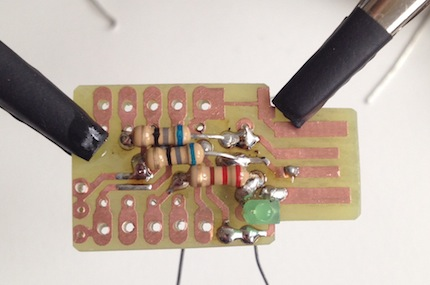
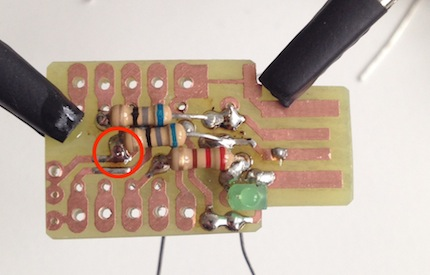
update read me

diff --git a/readme.md b/readme.md
@@ -20,51 +20,83 @@ The goal of this project was to create a [Trinket](https://github.com/adafruit/A
 ### Creating the board
 
 Tranfering the layout to the board using toner-transfer. You can see some paper residue on the toner. This doesn't hinder the etching
-![Trinky](https://github.com/beargun/trinky/raw/master/pictures/trinky-1.jpg)
+<br />![Trinky](https://github.com/beargun/trinky/raw/master/pictures/trinky-1.jpg)
 
 Etching the board in hydrochloric acid and hydrogen peroxide. I'm agitaring the board using a modified cd-rom drive.
-![Trinky](https://github.com/beargun/trinky/raw/master/pictures/trinky-2.jpg)
+<br />![Trinky](https://github.com/beargun/trinky/raw/master/pictures/trinky-2.jpg)
 
 Almost done.
-![Trinky](https://github.com/beargun/trinky/raw/master/pictures/trinky-3.jpg)
+<br />![Trinky](https://github.com/beargun/trinky/raw/master/pictures/trinky-3.jpg)
 
 If you look closely you still see some copper. In hindsight I should have left it in the eching solution a bit longer.
-![Trinky](https://github.com/beargun/trinky/raw/master/pictures/trinky-4.jpg)
+<br />![Trinky](https://github.com/beargun/trinky/raw/master/pictures/trinky-4.jpg)
 
 With the toner removed you can clearly see the copper bridge. Easily fixed with a sharp knife.
-![Trinky](https://github.com/beargun/trinky/raw/master/pictures/trinky-5.jpg)
+<br />![Trinky](https://github.com/beargun/trinky/raw/master/pictures/trinky-5.jpg)
 
 All fixed. Note that I also cut away some of the outline. Otherwise I couldn't test for short using my multi-meter
-![Trinky](https://github.com/beargun/trinky/raw/master/pictures/trinky-6.jpg)
+<br />![Trinky](https://github.com/beargun/trinky/raw/master/pictures/trinky-6.jpg)
 
 Holding it agains the light reveals there are no more obvious shorts.
-![Trinky](https://github.com/beargun/trinky/raw/master/pictures/trinky-7.jpg)
+<br />![Trinky](https://github.com/beargun/trinky/raw/master/pictures/trinky-7.jpg)
 
 Holes drilled.
-![Trinky](https://github.com/beargun/trinky/raw/master/pictures/trinky-8.jpg)
+<br />![Trinky](https://github.com/beargun/trinky/raw/master/pictures/trinky-8.jpg)
 
 Outline cut using an electric scrollsaw.
-![Trinky](https://github.com/beargun/trinky/raw/master/pictures/trinky-9.jpg)
+<br />![Trinky](https://github.com/beargun/trinky/raw/master/pictures/trinky-9.jpg)
 
 
 ### Assembling the board
 
-![Trinky](https://github.com/beargun/trinky/raw/master/pictures/trinky-10.jpg)
-![Trinky](https://github.com/beargun/trinky/raw/master/pictures/trinky-11.jpg)
-![Trinky](https://github.com/beargun/trinky/raw/master/pictures/trinky-12.jpg)
-![Trinky](https://github.com/beargun/trinky/raw/master/pictures/trinky-13.jpg)
-![Trinky](https://github.com/beargun/trinky/raw/master/pictures/trinky-14.jpg)
-![Trinky](https://github.com/beargun/trinky/raw/master/pictures/trinky-15.jpg)
-![Trinky](https://github.com/beargun/trinky/raw/master/pictures/trinky-16.jpg)
-![Trinky](https://github.com/beargun/trinky/raw/master/pictures/trinky-17.jpg)
-![Trinky](https://github.com/beargun/trinky/raw/master/pictures/trinky-18.jpg)
-![Trinky](https://github.com/beargun/trinky/raw/master/pictures/trinky-19.jpg)
-![Trinky](https://github.com/beargun/trinky/raw/master/pictures/trinky-20.jpg)
-![Trinky](https://github.com/beargun/trinky/raw/master/pictures/trinky-21.jpg)
-![Trinky](https://github.com/beargun/trinky/raw/master/pictures/trinky-22.jpg)
-![Trinky](https://github.com/beargun/trinky/raw/master/pictures/trinky-23.jpg)
-![Trinky](https://github.com/beargun/trinky/raw/master/pictures/trinky-24.jpg)
-![Trinky](https://github.com/beargun/trinky/raw/master/pictures/trinky-25.jpg)
-![Trinky](https://github.com/beargun/trinky/raw/master/pictures/trinky-26.jpg)
-![Trinky](https://github.com/beargun/trinky/raw/master/pictures/trinky-27.jpg)
-![Trinky](https://github.com/beargun/trinky/raw/master/pictures/trinky-28.jpg)
+Since the led has to be at the top (the same side as the copper), I put the leads down, and then back up in the holes next to it. Otherwise you can't have the led flush with the board, as you have to be able to put the soldering iron underneath it.
+<br />![Trinky](https://github.com/beargun/trinky/raw/master/pictures/trinky-10.jpg)
+<br />![Trinky](https://github.com/beargun/trinky/raw/master/pictures/trinky-11.jpg)
+
+Next add a jumper and the two zener diodes to the underside, and solder it.
+<br />![Trinky](https://github.com/beargun/trinky/raw/master/pictures/trinky-12.jpg)
+<br />![Trinky](https://github.com/beargun/trinky/raw/master/pictures/trinky-13.jpg)
+
+The resistor for the led.
+<br />![Trinky](https://github.com/beargun/trinky/raw/master/pictures/trinky-14.jpg)
+
+The two 68-Ohm resistors. **You should move the resistors more to the right, to make the button fit better.**
+<br />![Trinky](https://github.com/beargun/trinky/raw/master/pictures/trinky-15.jpg)
+
+Note the solder bridge I accidentily made. I only noticed it when I was done, and did some final testing using my multimeter.
+<br />![Trinky](https://github.com/beargun/trinky/raw/master/pictures/trinky-16.jpg)
+
+Remove two of the leads from the button. I also had to remove a bit of one corner. You shouldn't have to do that if you moved the resistor a bit more to the right.
+<br />![Trinky](https://github.com/beargun/trinky/raw/master/pictures/trinky-17.jpg)
+
+Here I added the button and the 1800-Ohm resitor (Trinket uses 1500-Ohm). **You should put this resistor one the bottom. As it won't really fit, if you've moved the two resistors as I instructed above**
+<br />![Trinky](https://github.com/beargun/trinky/raw/master/pictures/trinky-18.jpg)
+
+Here come the brains. I've already flashed my altered the bootloader](https://github.com/beargun/Adafruit-Trinket-Gemma-Bootloader) onto it.
+<br />![Trinky](https://github.com/beargun/trinky/raw/master/pictures/trinky-19.jpg)
+
+Bend over the pins. 
+<br />I also scraped away the trace between the two pads of the polyfuse. If you don't add the polyfuse you should just leave it there. 
+<br />Here I've also tinned the usb connector. This will make it fit better into the usb socker, and prevent the copper from oxidizing and wearing out.
+<br />![Trinky](https://github.com/beargun/trinky/raw/master/pictures/trinky-20.jpg)
+
+Here I soldered the pins, and added the optional polyfuse. 
+<br />![Trinky](https://github.com/beargun/trinky/raw/master/pictures/trinky-21.jpg)
+
+Because the ATtiny is at the bottom, I had to put shims under the header pins to raise them high enough to reach the board.
+<br />![Trinky](https://github.com/beargun/trinky/raw/master/pictures/trinky-22.jpg)
+
+For a bit of extra bling, I added a few layers of nail varnish. This will prevent accidental short, oxidation and tin-whiskers (just kidding on the last one). I added some extra layers at the top right, where the board might touch the outside/shielding of the usb socket.
+<br />![Trinky](https://github.com/beargun/trinky/raw/master/pictures/trinky-23.jpg)
+
+Too scale. The board ended up fractionally shorter (29.5mm) than the board of the real Trinket (note that mini-usb sticks out even more). It is however slightly wider. I could just cut away some more of the board, but I'd have to slightly move some components in the layout to match the width of the Trinket. Win some, lose some
+<br />![Trinky](https://github.com/beargun/trinky/raw/master/pictures/trinky-25.jpg)
+
+<br />![Trinky](https://github.com/beargun/trinky/raw/master/pictures/trinky-26.jpg)
+
+<br />![Trinky](https://github.com/beargun/trinky/raw/master/pictures/trinky-27.jpg)
+
+And yes, it works!
+<br />![Trinky](https://github.com/beargun/trinky/raw/master/pictures/trinky-28.jpg)
+
+Thank you for watching!
